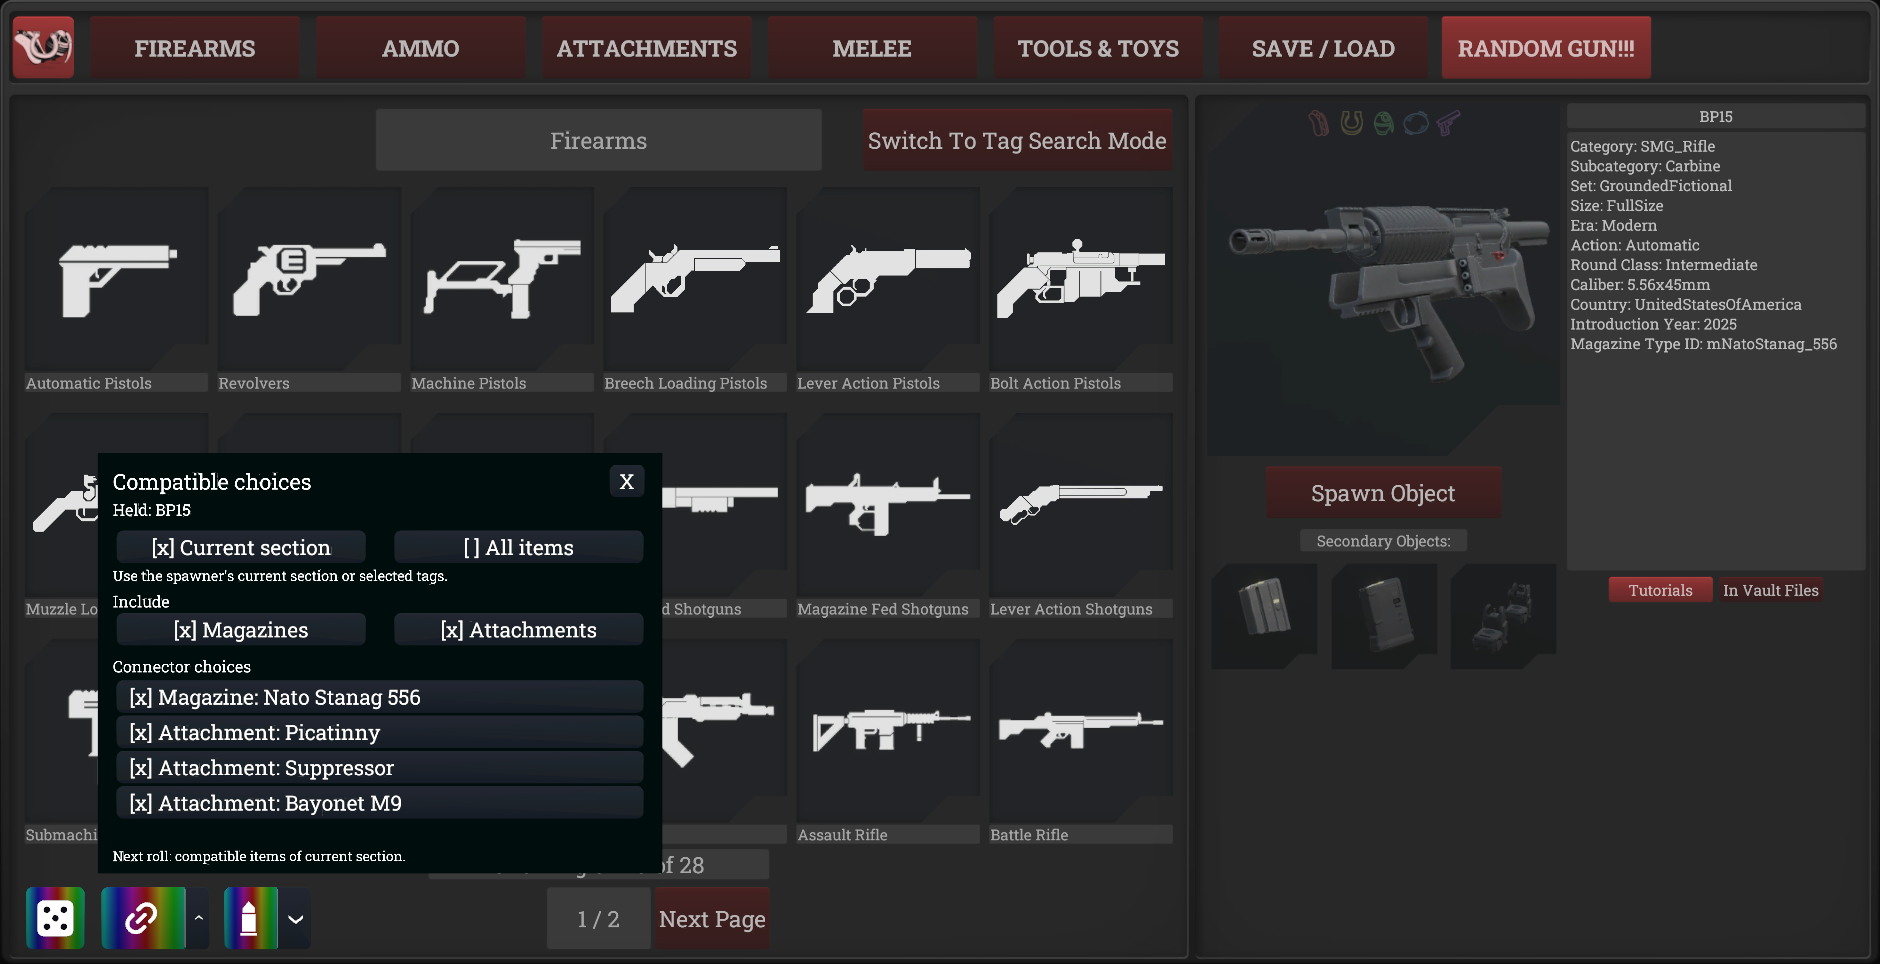
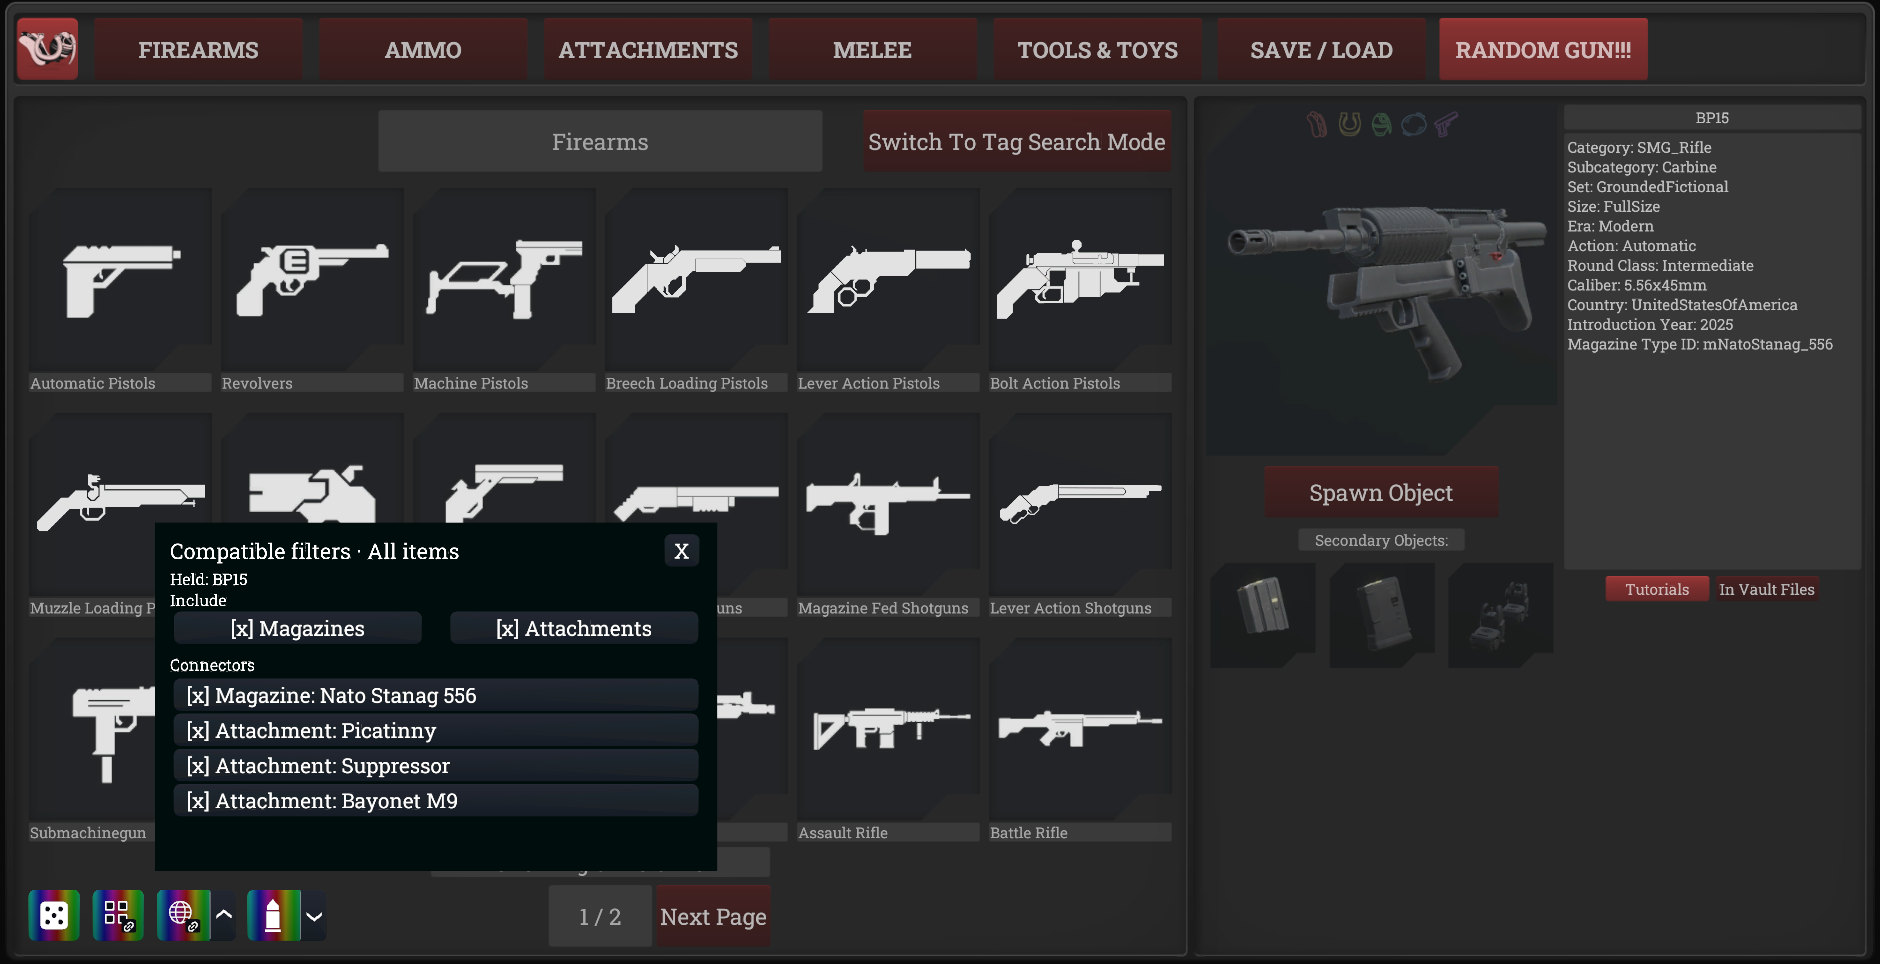
Prepare 1.2.0 with refreshed spawner cover and reviewed README

diff --git a/tests/runtime/ReadmePreview.cs b/tests/runtime/ReadmePreview.cs
@@ -49,7 +49,7 @@ public static class ReadmePreview
             yield return null; // Let the owner hide the tooltip before rendering the popup.
             yield return new WaitForEndOfFrame();
             var root = (RectTransform)AccessTools.Field(controller.GetType(), "uiRoot").GetValue(controller);
-            Capture(root.parent as RectTransform, Path.Combine(directory, "readme-cover.png"));
+            RenderPanel(root.parent as RectTransform, Path.Combine(directory, "readme-cover.png"), 1880, 964, .501f);
             log("README COVER CAPTURED");
         }
         finally
@@ -63,11 +63,13 @@ public static class ReadmePreview
     }
 
     private static void Capture(RectTransform canvas, string path)
+        => RenderPanel(canvas, path, 1920, 1080, .51f);
+
+    private static void RenderPanel(RectTransform canvas, string path, int width, int height, float padding)
     {
         Canvas.ForceUpdateCanvases();
         var cameraObject = new GameObject("Gundomizer README camera");
         var camera = cameraObject.AddComponent<Camera>();
-        const int width = 1920, height = 1080;
         var target = new RenderTexture(width, height, 24);
         var pixels = new Texture2D(width, height, TextureFormat.RGB24, false);
         var previous = RenderTexture.active;
@@ -83,7 +85,7 @@ public static class ReadmePreview
             camera.transform.rotation = canvas.rotation;
             camera.orthographic = true;
             camera.orthographicSize = Mathf.Max(bounds.size.y * canvas.lossyScale.y,
-                canvas.rect.width * canvas.lossyScale.x * height / width) * .51f;
+                canvas.rect.width * canvas.lossyScale.x * height / width) * padding;
             camera.nearClipPlane = .01f; camera.farClipPlane = 4;
             camera.clearFlags = CameraClearFlags.SolidColor;
             camera.backgroundColor = new Color(.04f, .04f, .04f);

diff --git a/plugin/Plugin.cs b/plugin/Plugin.cs
@@ -7,7 +7,7 @@ using HarmonyLib;
 
 namespace Gundomizer
 {
-    [BepInPlugin("quaternion.gundomizer", "Gundomizer", "1.1.0")]
+    [BepInPlugin("quaternion.gundomizer", "Gundomizer", "1.2.0")]
     [BepInProcess("h3vr.exe")]
     [BepInDependency("h3vr.otherloader", BepInDependency.DependencyFlags.SoftDependency)]
     [BepInDependency("h3vr.cityrobo.ModularWorkshopManager", BepInDependency.DependencyFlags.SoftDependency)]
@@ -60,7 +60,7 @@ namespace Gundomizer
                     prefix: new HarmonyMethod(typeof(Plugin), nameof(BeforePortableSpawn)));
                 try { ModularWorkshopBridge.Initialize(harmony); }
                 catch (Exception ex) { Logger.LogWarning("Optional Modular Workshop controls unavailable: " + ex.Message); }
-                Logger.LogInfo("Gundomizer 1.1.0 loaded. Classic and tag viewer randomizer enabled.");
+                Logger.LogInfo("Gundomizer 1.2.0 loaded. Classic and tag viewer randomizer enabled.");
                 ConnectorIndex.Start(this);
                 try { PersistentConnectorIndex.Start(this); }
                 catch (Exception ex) { Logger.LogWarning("Persistent indexing unavailable; live search remains enabled: " + ex); }

diff --git a/tests/runtime/RuntimeSuite.cs b/tests/runtime/RuntimeSuite.cs
@@ -48,9 +48,12 @@ public static class RuntimeSuite
         if (File.Exists(Path.Combine(directory, "ammo-mod-checks.txt")) || File.Exists(Path.Combine(directory, "ammo-fill-checks.txt"))
             || File.Exists(Path.Combine(directory, "readme-preview.txt")) || File.Exists(Path.Combine(directory, "search-checks.txt")))
         {
-            var setup = AmmoModChecks.Prepare(directory, log);
-            try { while (setup.MoveNext()) yield return setup.Current; }
-            finally { (setup as IDisposable).Dispose(); }
+            if (BepInEx.Bootstrap.Chainloader.PluginInfos.ContainsKey("h3vr.otherloader"))
+            {
+                var setup = AmmoModChecks.Prepare(directory, log);
+                try { while (setup.MoveNext()) yield return setup.Current; }
+                finally { (setup as IDisposable).Dispose(); }
+            }
         }
         foreach (var pair in AM.STypeDic[FireArmRoundType.a9_19_Parabellum])
         {

diff --git a/README.md b/README.md
@@ -4,8 +4,11 @@
 
 Randomize items directly in **Item Spawner V2**, including the **toolbox tablet**, in classic and tag-search modes.
 
+**`NEW`!** Randomize Modul's parts!
+
 ## Features
 
+- **Modul parts and skins:** randomize a single slot or the whole build with Modular Workshop.
 - **Random item:** roll from the current category and its subcategories, or your selected tags, across all pages.
 - **Compatible section:** grid + link rolls items that fit what you're holding, within the current section or tags.
 - **Compatible catalog:** globe + link searches all items, with type and connector filters in its dropdown. Choices last for the session.
@@ -20,7 +23,7 @@ Randomize items directly in **Item Spawner V2**, including the **toolbox tablet*
 2. Launch H3VR using **Start modded**.
 3. Use the rainbow buttons in **Item Spawner V2** or its **toolbox tablet**.
 
-## [NEW] Modul's Support
+## Modul's Support *`NEW`*
 
 ![Modular Workshop weapon above its platform, with Gundomizer's rainbow build dice hovered during a playtest](https://raw.githubusercontent.com/quaternion7/gundomizer/main/docs/images/modular-workshop.png)
 
@@ -58,7 +61,7 @@ For feedback or support, join the [H3VR Homebrew Discord server](https://discord
 - Anton Hand and RUST LTD. for **H3VR**.
 - The **H3VR Homebrew community**, mod authors, and tool and loader maintainers.
 - **nesrak1 / AssetsTools.NET** for the bundle metadata reader library.
-- The **Modular Workshop** and modular weapon authors for their framework, platform, parts, and skins.
+- The **Modular Workshop** and modular weapon authors.
 
 ## Support
 
@@ -66,7 +69,7 @@ Tips and donations are welcome on [Ko-fi](https://ko-fi.com/quaternion7). You ca
 
 ## Changelog
 
-- **Unreleased:** Modular Workshop part, skin and build rolls; separate section/catalog buttons; quieter click feedback.
+- **1.2.0:** Modular Workshop part, skin and build rolls; separate section/catalog buttons; quieter click feedback.
 - **1.1.0:** Compatible type/connector filters, cross-category magazine rolls, a chain-link icon, and improved ModulAK indexing.
 - **1.0.2:** Fix missing buttons with OtherLoaderPatched and support its custom categories.
 - **1.0.1:** DLL-only metadata reader with reusable decompression buffers.

diff --git a/CHANGELOG.md b/CHANGELOG.md
@@ -1,6 +1,6 @@
 # Changelog
 
-## Unreleased
+## 1.2.0
 
 Add optional Modular Workshop dice buttons fixed below part/skin menus, clear of paging arrows. Individual rolls exclude the current choice while preserving authored part weights.
 
